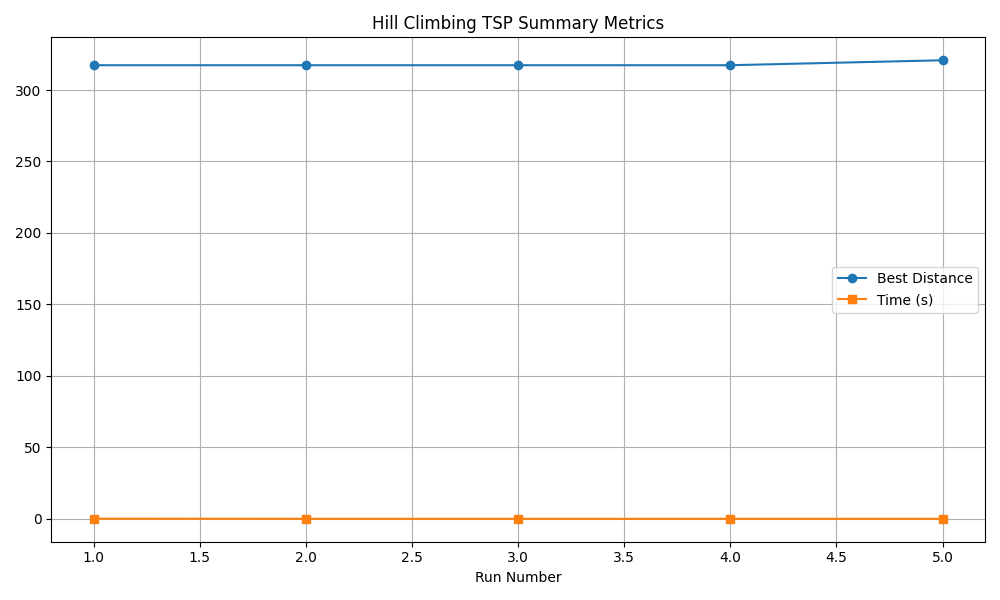
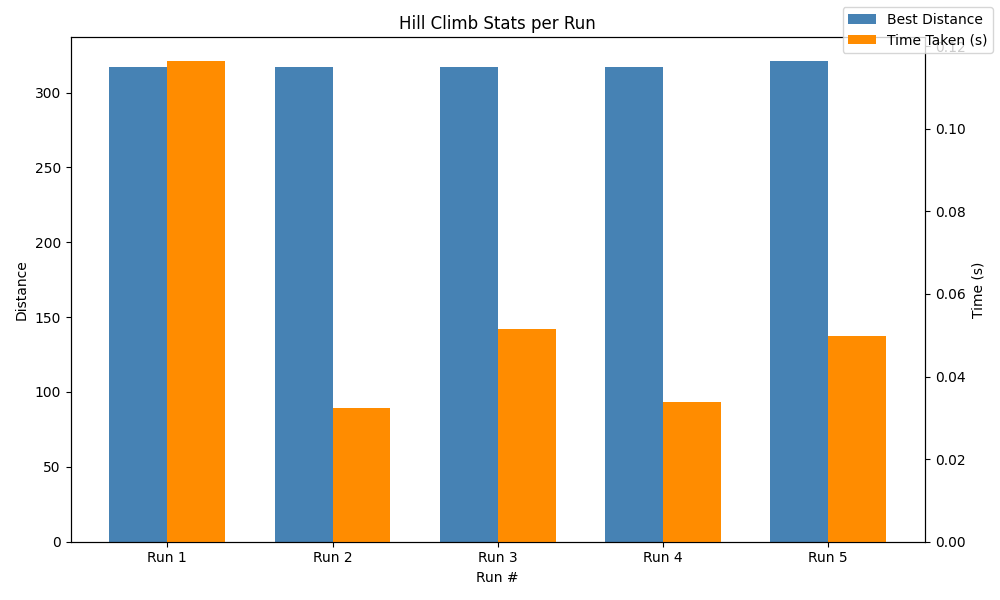
New

diff --git a/simu_anneal.py b/simu_anneal.py
@@ -35,7 +35,7 @@ def swap_cities(route):
     new_route[i], new_route[j] = new_route[j], new_route[i]
     return new_route
 
-def simulated_annealing_tsp(cities, initial_temp=1000, cooling_rate=0.995, min_temp=1e-3, max_iters=100000):
+def simulated_annealing_tsp(cities, run_no, initial_temp=1000, cooling_rate=0.995, min_temp=1e-3, max_iters=100000):
     dist_table = generate_distance_table(cities)
     current_route = list(np.random.permutation(len(cities)))
     current_cost = route_cost(current_route, dist_table)
@@ -43,6 +43,7 @@ def simulated_annealing_tsp(cities, initial_temp=1000, cooling_rate=0.995, min_t
     best_cost = current_cost
     temp = initial_temp
     frame_idx = 0
+    frame_paths = []
 
     for iteration in range(max_iters):
         candidate_route = swap_cities(current_route)
@@ -59,14 +60,16 @@ def simulated_annealing_tsp(cities, initial_temp=1000, cooling_rate=0.995, min_t
                 best_route = current_route
                 best_cost = current_cost
 
-                # Save frame
+                # Save frame with run and stats
                 plt.figure(figsize=(7, 5))
                 full_path = best_route + [best_route[0]]
                 plt.scatter(cities[:, 0], cities[:, 1], c='black')
                 plt.plot(cities[full_path, 0], cities[full_path, 1], c='darkorange')
-                plt.title(f"Iteration {iteration} | Temp: {temp:.2f}")
+                plt.title(f"Run {run_no} | Iter {iteration} | Temp: {temp:.2f} | Cost: {best_cost:.2f}")
                 plt.axis('equal')
-                plt.savefig(f"snapshot_{frame_idx}.png")
+                frame_file = f"frame_{run_no}_{frame_idx}.png"
+                plt.savefig(frame_file)
+                frame_paths.append(frame_file)
                 plt.close()
                 frame_idx += 1
 
@@ -74,12 +77,12 @@ def simulated_annealing_tsp(cities, initial_temp=1000, cooling_rate=0.995, min_t
         if temp < min_temp:
             break
 
-    return best_route, best_cost, frame_idx
+    return best_route, best_cost, frame_paths
 
 # ---- Main Execution ----
 city_locations = read_city_file("TSP.txt")
 
-# Plot city map
+# Plot initial city map
 plt.figure()
 plt.scatter(city_locations[:, 0], city_locations[:, 1], color='darkgreen')
 plt.title("TSP City Map")
@@ -89,21 +92,75 @@ plt.axis('equal')
 plt.savefig("initial_map.png")
 plt.show()
 
-start_time = time.time()
-best_path, best_cost, frames = simulated_annealing_tsp(city_locations)
-end_time = time.time()
+# ---- Run Multiple Times and Record Stats ----
+num_runs = 5
+distances = []
+times = []
+frame_counts = []
+all_frames = []
+best_overall_cost = float('inf')
+best_overall_path = None
+best_run = -1
 
-print("Optimal Path Found:", best_path)
-print("Total Distance:", best_cost)
-print("Elapsed Time:", round(end_time - start_time, 4), "seconds")
+for run in range(num_runs):
+    print(f"\n--- Run {run+1} ---")
+    start_time = time.time()
+    best_path, best_cost, frame_files = simulated_annealing_tsp(city_locations, run_no=run+1)
+    end_time = time.time()
 
-# Create GIF
-images = []
-for idx in range(frames):
-    filename = f"snapshot_{idx}.png"
-    if os.path.exists(filename):
-        images.append(imageio.imread(filename))
-        os.remove(filename)
+    elapsed = round(end_time - start_time, 4)
 
-imageio.mimsave("simulated_annealing_tsp.gif", images, fps=1)
-print(f"GIF saved with {frames} frames.")
+    print("Optimal Path Found:", best_path)
+    print("Total Distance:", best_cost)
+    print("Elapsed Time:", elapsed, "seconds")
+
+    distances.append(best_cost)
+    times.append(elapsed)
+    frame_counts.append(len(frame_files))
+
+    # Save best overall
+    if best_cost < best_overall_cost:
+        best_overall_cost = best_cost
+        best_overall_path = best_path
+        best_run = run + 1
+
+    # Collect all frames for combined gif
+    for frame_file in frame_files:
+        if os.path.exists(frame_file):
+            all_frames.append(imageio.imread(frame_file))
+            os.remove(frame_file)
+
+# Save combined GIF
+gif_name = "simulated_annealing_tsp_all_runs.gif"
+imageio.mimsave(gif_name, all_frames, fps=2)
+print(f"\n🎥 Combined GIF saved as {gif_name} with {len(all_frames)} frames.")
+
+# ---- Final Best Path Plot ----
+plt.figure(figsize=(8, 6))
+full_best = best_overall_path + [best_overall_path[0]]
+plt.scatter(city_locations[:, 0], city_locations[:, 1], color='black')
+plt.plot(city_locations[full_best, 0], city_locations[full_best, 1], color='red', linewidth=2)
+plt.title(f"Best Path Overall Simu Anneal | Run {best_run} | Distance: {best_overall_cost:.2f}")
+plt.axis('equal')
+plt.savefig("best_overall_path_simu.png")
+plt.show()
+
+# ---- Plot Stats ----
+labels = [f'Run {i+1}' for i in range(num_runs)]
+x = np.arange(num_runs)
+width = 0.25
+
+plt.figure(figsize=(10, 6))
+plt.bar(x - width, distances, width, label='Total Distance', color='orange')
+plt.bar(x, times, width, label='Time (s)', color='green')
+plt.bar(x + width, frame_counts, width, label='Frames', color='blue')
+
+plt.xlabel('Run')
+plt.ylabel('Metrics')
+plt.title('Simulated Annealing TSP Stats per Run')
+plt.xticks(x, labels)
+plt.legend()
+plt.grid(True, linestyle='--', alpha=0.6)
+plt.tight_layout()
+plt.savefig("simu_anneal_stats.png")
+plt.show()

diff --git a/hill.py b/hill.py
@@ -67,8 +67,11 @@ def randomized_climb(points, restart_limit=5, iteration_limit=1000, base_seed=10
     best_path = None
     best_cost = float('inf')
     image_paths = []
+    best_costs_per_run = []
+    time_taken_per_run = []
 
     for attempt in range(restart_limit):
+        start = time.time()
         rng = np.random.default_rng(base_seed + attempt)
         path = list(rng.permutation(len(points)))
         cost = route_cost(path, dist_table)
@@ -83,11 +86,15 @@ def randomized_climb(points, restart_limit=5, iteration_limit=1000, base_seed=10
             else:
                 break
 
+        time_taken = time.time() - start
+        best_costs_per_run.append(cost)
+        time_taken_per_run.append(time_taken)
+
         if cost < best_cost:
             best_cost = cost
             best_path = path
 
-    return best_path, best_cost, image_paths
+    return best_path, best_cost, image_paths, best_costs_per_run, time_taken_per_run
 
 # ---------- Main Execution ----------
 
@@ -106,12 +113,12 @@ if __name__ == "__main__":
 
     # Run Randomized Hill Climbing
     start_time = time.time()
-    path, cost, image_files = randomized_climb(city_locations)
+    path, cost, image_files, best_costs, times = randomized_climb(city_locations)
     end_time = time.time()
 
     print("Final Tour Order:", [int(i) for i in path])
     print("Minimum Distance Achieved:", round(cost, 2))
-    print("Execution Duration:", round(end_time - start_time, 4), "seconds")
+    print("Total Execution Duration:", round(end_time - start_time, 4), "seconds")
 
     # Save GIF Animation
     frames = [imageio.imread(f) for f in image_files]
@@ -122,3 +129,30 @@ if __name__ == "__main__":
         os.remove(f)
 
     print(f"Animation saved with {len(image_files)} steps.")
+
+    # Plot Combined Stats: Distance and Time
+    x = np.arange(len(best_costs))
+    width = 0.35
+
+    fig, ax1 = plt.subplots(figsize=(10, 6))
+    bars1 = ax1.bar(x - width/2, best_costs, width, label='Best Distance', color='steelblue')
+    ax1.set_ylabel('Distance')
+    ax1.set_xlabel('Run #')
+    ax1.set_title('Hill Climb Stats per Run')
+    ax1.set_xticks(x)
+    ax1.set_xticklabels([f'Run {i+1}' for i in x])
+    ax1.tick_params(axis='y')
+
+    ax2 = ax1.twinx()
+    bars2 = ax2.bar(x + width/2, times, width, label='Time Taken (s)', color='darkorange')
+    ax2.set_ylabel('Time (s)')
+    ax2.tick_params(axis='y')
+
+    # Combine Legends
+    handles1, labels1 = ax1.get_legend_handles_labels()
+    handles2, labels2 = ax2.get_legend_handles_labels()
+    fig.legend(handles1 + handles2, labels1 + labels2, loc='upper right')
+
+    fig.tight_layout()
+    plt.savefig("hill_climb_stats.png")
+    plt.show()
